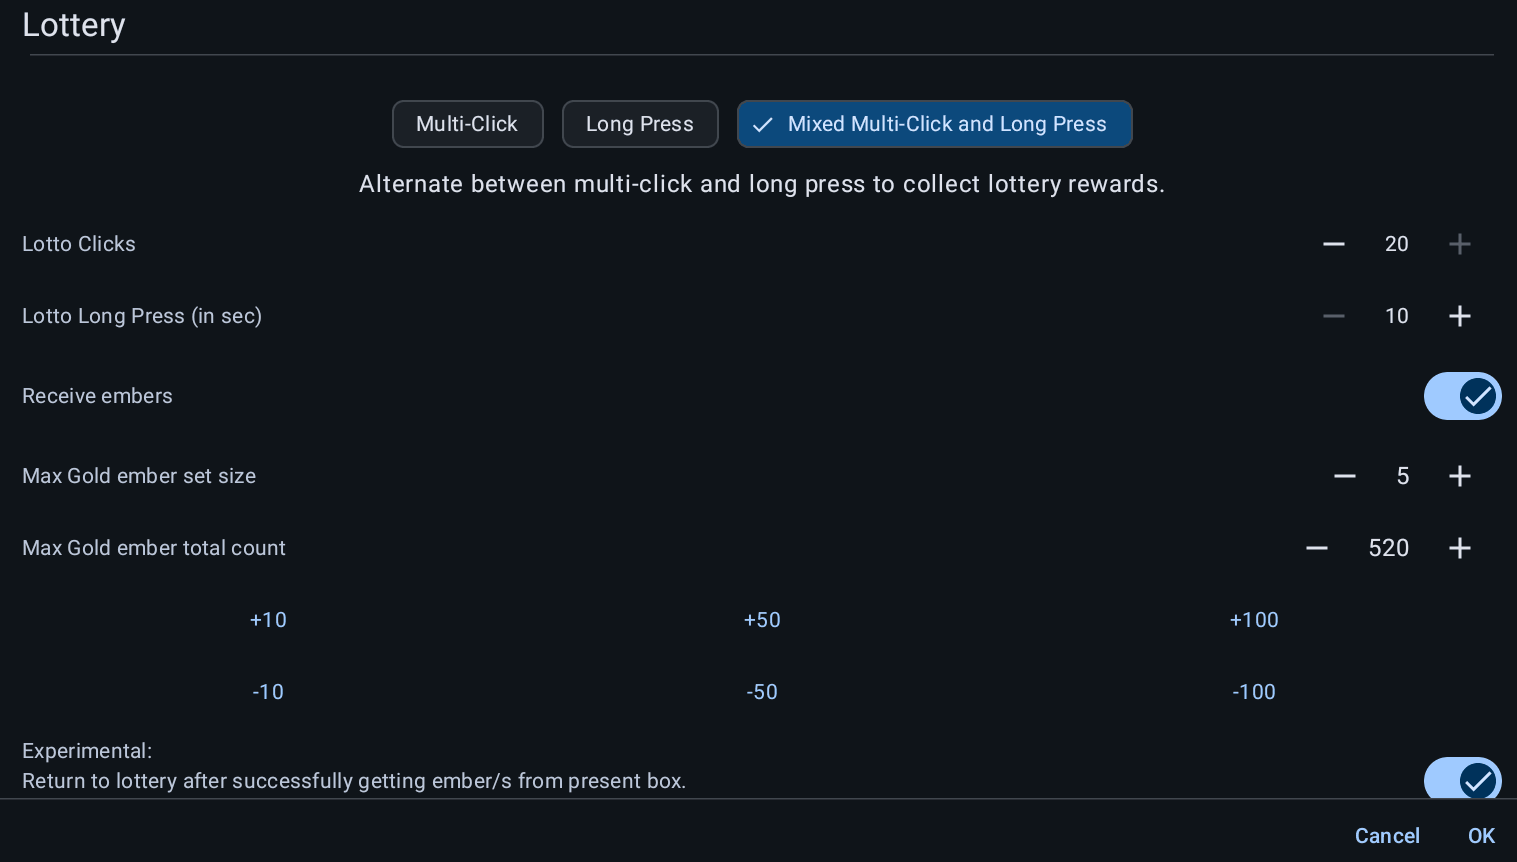
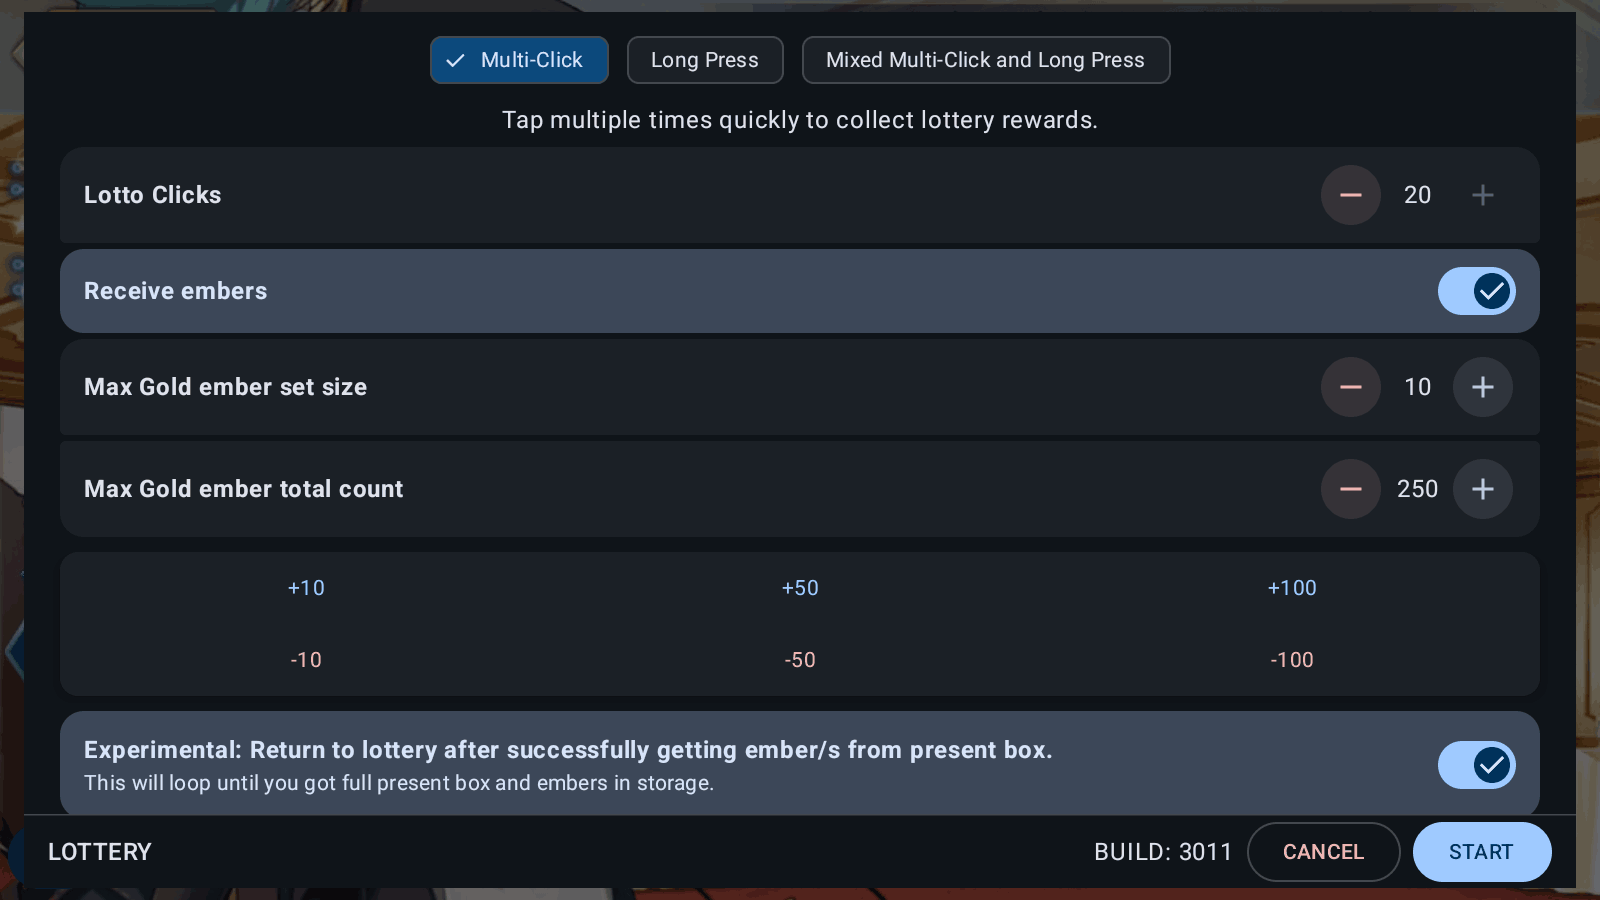
docs: other scripts images upgrade

diff --git a/docs/scripts/auto-level-servant.md b/docs/scripts/auto-level-servant.md
@@ -105,7 +105,7 @@ The setup screen shows these settings:
 | Redirect to Palingenesis upon reaching the level cap?  | The script opens the palingenesis (grail) menu at max level.                                                                             |
 | Mute Notifications?                                    | The script mutes the enhancement notification popups while leveling.                                                                     |
 
-![Level Servant Dialog](<../assets/scripts/Level Servant Dialog.png>)
+![Level Servant Dialog](<../assets/scripts/Level-Servant-Dialog.png>)
 
 ## Exit Reasons
 

diff --git a/docs/scripts/friend-point-gacha.md b/docs/scripts/friend-point-gacha.md
@@ -27,9 +27,9 @@ The script performs FP summons continuously. It uses the 10x and 100x summon but
    - The 10x or 100x continue summon button
    - The Sell button
 
-![Friend Point Gacha](<../assets/scripts/Friend Point Gacha.png>)
+![Friend Point Gacha](<../assets/scripts/Friend-Point-Gacha.png>)
 
-![Friend Point Gacha to CE EXP Bomb](<../assets/scripts/Friend Point Gacha To CE EXP Bomb.png>)
+![Friend Point Gacha to CE EXP Bomb](<../assets/scripts/Friend-Point-Gacha-To-CE-EXP-Bomb.png>)
 
 ## Workflow
 

diff --git a/docs/scripts/gift-box.md b/docs/scripts/gift-box.md
@@ -76,7 +76,7 @@ flowchart TD
 | Max Gold Ember Total Count          | Maximum total gold embers to collect                          |
 | Loop Into Lottery After Present Box | Return to lottery after collection (when called from lottery) |
 
-![Gift Box Dialog](<../assets/scripts/Gift Box.png>)
+![Gift Box Dialog](<../assets/scripts/Gift-Box.png>)
 
 ## Exit Reasons
 

diff --git a/docs/scripts/auto-level-skills.md b/docs/scripts/auto-level-skills.md
@@ -98,7 +98,7 @@ flowchart TD
 
 ![Level Skill with unavailable slots](<../assets/scripts/Level Skill Limited.png>)
 
-![Level Skill with unavailable slots Dialog](<../assets/scripts/Level Skill Limited Dialog.png>)
+![Level Skill with unavailable slots Dialog](<../assets/scripts/Level-Skill-Limited-Dialog.png>)
 
 ## Exit Reasons
 

diff --git a/docs/scripts/auto-ce-exp-bomb.md b/docs/scripts/auto-ce-exp-bomb.md
@@ -108,7 +108,7 @@ The loop runs until one of these occurs:
 
 ![CE EXP Bomb Screen](<../assets/scripts/CE EXP Bomb.png>)
 
-![CE EXP Bomb Dialog](<../assets/scripts/CE EXP Bomb Dialog.png>)
+![CE EXP Bomb Dialog](<../assets/scripts/CE-EXP-Bomb-Dialog.png>)
 
 ## Exit Reasons
 
